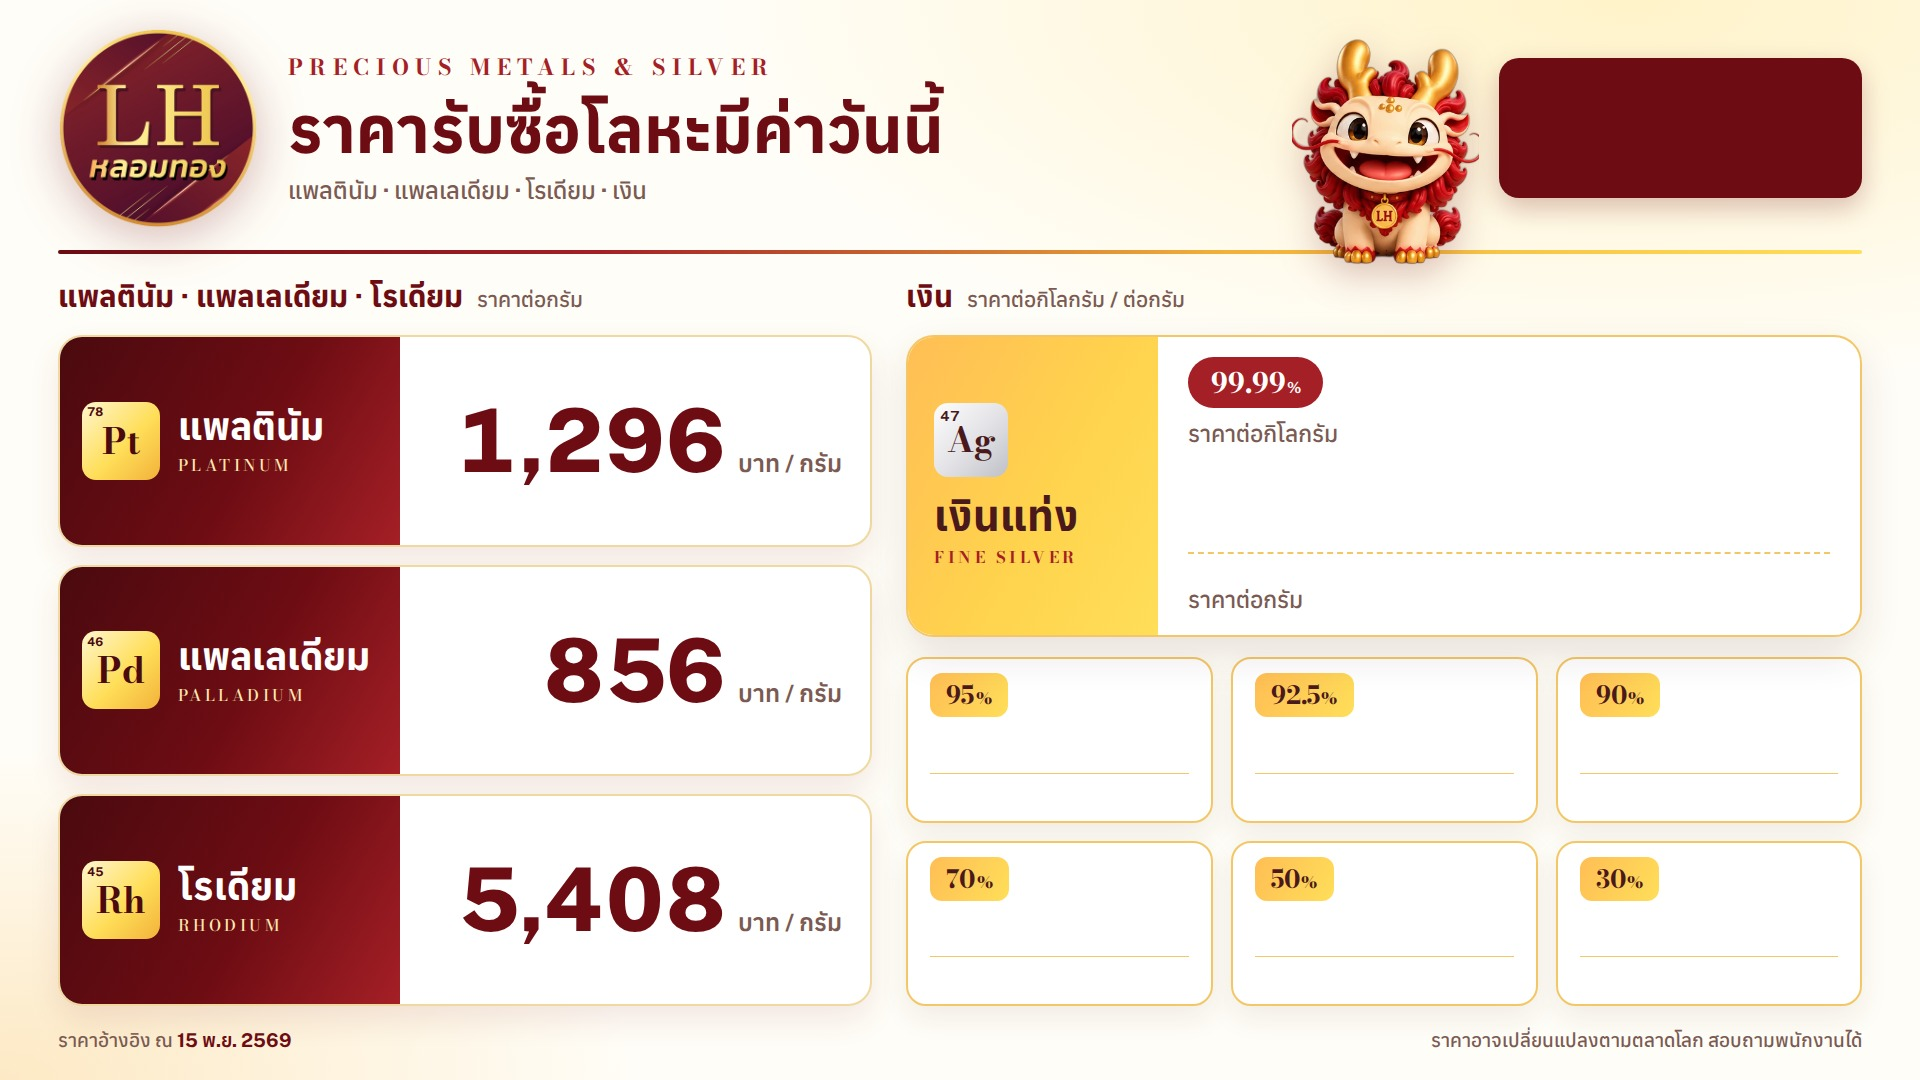
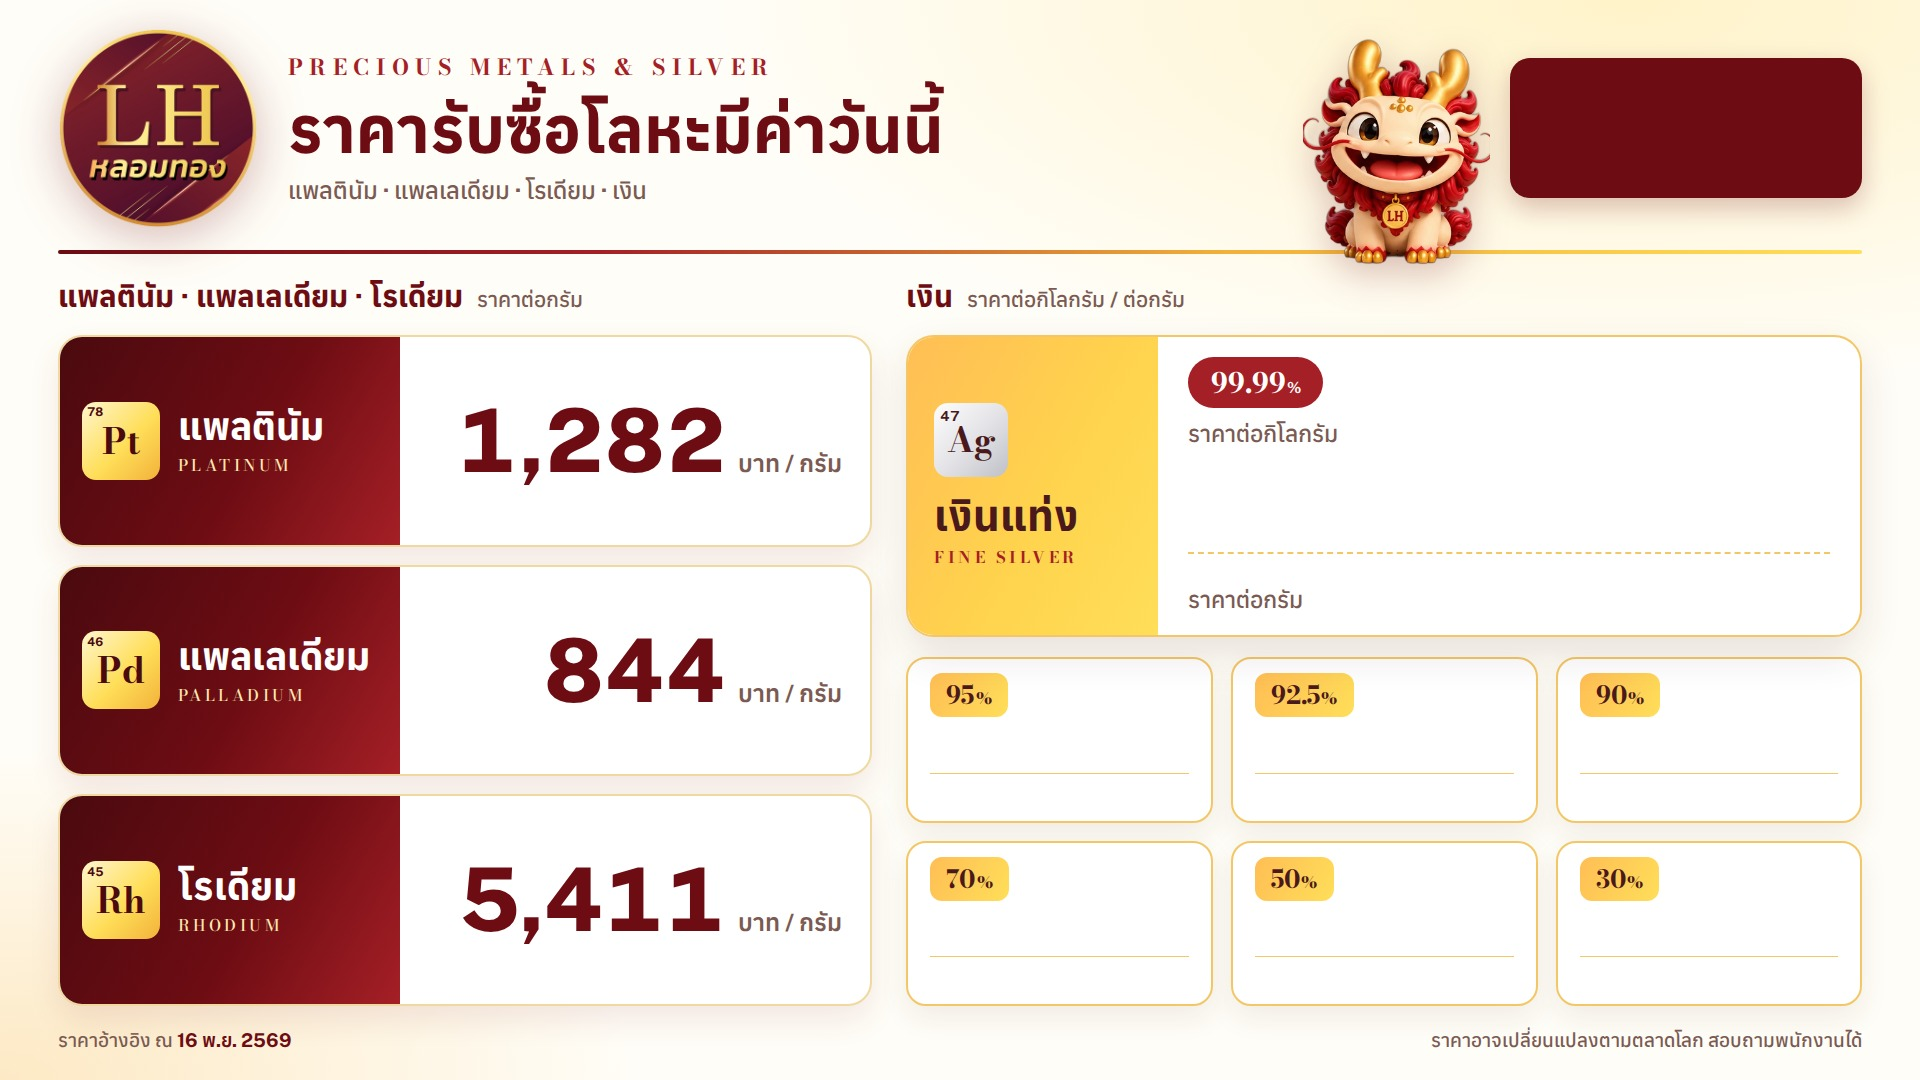
Update prices 2026-11-16

diff --git a/board.html b/board.html
@@ -302,14 +302,14 @@ html{-webkit-text-size-adjust:100%;text-size-adjust:100%}
      ราคาแต่ละเกรด = ราคาเงินหลังหัก × เปอร์เซ็นต์ (99.99% ใช้ราคาเต็ม)
    showSilver = เปิด/ปิดหน้าราคาเงิน, rotateSeconds = เปลี่ยนหน้าทุกกี่วินาที */
 const CONFIG = {
-  asOf: "15 พ.ย. 2569",
-  fx: 33.88,
+  asOf: "16 พ.ย. 2569",
+  fx: 33.90,
   discount: 0.20,
   rotateSeconds: 15,
   showSilver: true,
   metals: [
-    { th:"แพลตินัม",  en:"Platinum",  sym:"Pt", z:78, usdPerGram:47.8081 },
-    { th:"แพลเลเดียม", en:"Palladium", sym:"Pd", z:46, usdPerGram:31.572 },
+    { th:"แพลตินัม",  en:"Platinum",  sym:"Pt", z:78, usdPerGram:47.2616 },
+    { th:"แพลเลเดียม", en:"Palladium", sym:"Pd", z:46, usdPerGram:31.1219 },
     { th:"โรเดียม",    en:"Rhodium",   sym:"Rh", z:45, usdPerGram:266.05, discount:0.40 }
   ],
   silver: { pricePerKg: 55000, grades: [95, 92.5, 90, 70, 50, 30] }
